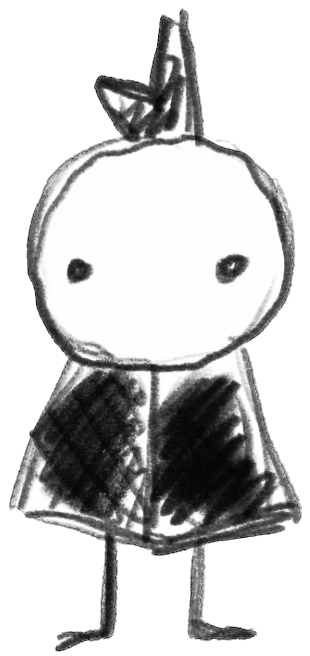
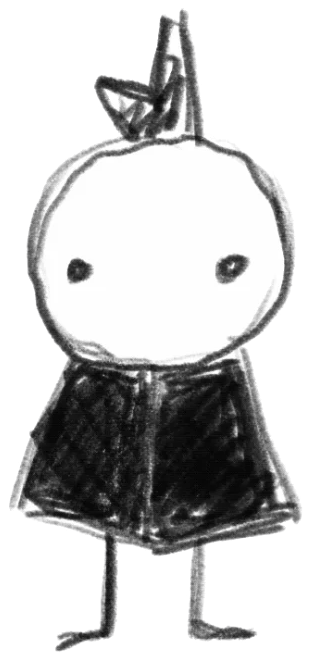
animace 1

diff --git a/Assets/SCRIPTS/Animation/PlayerKresba.cs b/Assets/SCRIPTS/Animation/PlayerKresba.cs
@@ -24,9 +24,6 @@ public class PlayerKresba : MonoBehaviour
     float blinkTimer;
     float stepClock;
     float spin;
-    float eatClock;
-    bool wasEating;
-
     void LateUpdate()
     {
         if (player == null || kresba == null) return;
@@ -61,39 +58,12 @@ public class PlayerKresba : MonoBehaviour
         }
         spin = 0f;
 
-        // jidlo: napred se zakloni, pak chnapne dopredu a trikrat zprudka zvykne
+        // jidlo: jen kresba autorky, nic se s ni nekrouti
         if (player.IsEating)
         {
-            if (!wasEating) eatClock = 0f;
-            wasEating = true;
-            eatClock += dt;
             kresba.sprite = jidlo != null ? jidlo : bok;
-            float f = player.Facing;
-
-            if (eatClock < 0.2f)
-            {
-                float k = eatClock / 0.2f;
-                t.localRotation = Quaternion.Euler(0f, 0f, 14f * k * f);
-                t.localScale = new Vector3(1f - 0.1f * k, 1f + 0.12f * k, 1f);
-            }
-            else if (eatClock < 0.35f)
-            {
-                float k = (eatClock - 0.2f) / 0.15f;
-                t.localRotation = Quaternion.Euler(0f, 0f, Mathf.Lerp(14f, -18f, k) * f);
-                t.localPosition = new Vector3(0.2f * k * f, 0f, 0f);
-                t.localScale = new Vector3(1f + 0.12f * k, 1f - 0.1f * k, 1f);
-            }
-            else
-            {
-                float k = (eatClock - 0.35f) / 0.85f;
-                float chomp = Mathf.Abs(Mathf.Sin(k * Mathf.PI * 3f)) * (1f - k * 0.6f);
-                t.localRotation = Quaternion.Euler(0f, 0f, -6f * (1f - k) * f);
-                t.localPosition = new Vector3(0.2f * (1f - k) * f, chomp * 0.12f, 0f);
-                t.localScale = new Vector3(1f + chomp * 0.22f, 1f - chomp * 0.18f, 1f);
-            }
             return;
         }
-        wasEating = false;
 
         // ve vzduchu: nahoru skok, dolu padak
         if (!player.IsGrounded)

diff --git a/Tools/ArtGenerator/Kresba.cs b/Tools/ArtGenerator/Kresba.cs
@@ -10,7 +10,16 @@ using System.IO;
 // Vypise sirku hlavy v px - podle ni se v Unity nastavi velikost, aby vsechny kresby mely stejne velkou hlavu.
 public static class Kresba
 {
-    const int Close = 6;
+    static int Close = 6;
+    static bool cista;
+
+    // cista = jen papir pryc, tuzka zustane jak je nakreslena (nic se nezaliva ani neztmavuje)
+    public static void RenderCista(string outDir, string[] pairs)
+    {
+        Close = 2;
+        cista = true;
+        Render(outDir, pairs);
+    }
 
     public static void Render(string outDir, string[] pairs)
     {
@@ -98,16 +107,16 @@ public static class Kresba
                 if (x >= 0 && y >= 0 && x < w && y < h)
                 {
                     float l = lum[x, y];
-                    if (outside[x, y] <= Close + 1 && l > 120f)
+                    if (outside[x, y] <= Close + 1 && (cista || l > 120f))
                     {
                         // okraj: jen tuzka, papir pryc
-                        float a = (float)Math.Pow(Math.Clamp((245f - l) / 110f, 0f, 1f), 0.75);
+                        float a = cista ? Math.Clamp((250f - l) / 220f, 0f, 1f) : (float)Math.Pow(Math.Clamp((245f - l) / 110f, 0f, 1f), 0.75);
                         c = Color.FromArgb((int)(a * 255), 28, 28, 30);
                     }
                     else
                     {
                         int v = (int)Math.Clamp(l, 0f, 255f);
-                        if (v < 170) v = (int)(v * 0.85f);
+                        if (!cista && v < 170) v = (int)(v * 0.85f);
                         c = Color.FromArgb(255, v, v, v);
                     }
                 }

diff --git a/Tools/ArtGenerator/Program.cs b/Tools/ArtGenerator/Program.cs
@@ -18,6 +18,12 @@ if (what == "sesit")
     return;
 }
 
+if (what == "kresbacista")
+{
+    Kresba.RenderCista(outDir, args.Skip(2).ToArray());
+    return;
+}
+
 if (what == "kresba")
 {
     Kresba.Render(outDir, args.Skip(2).ToArray());
